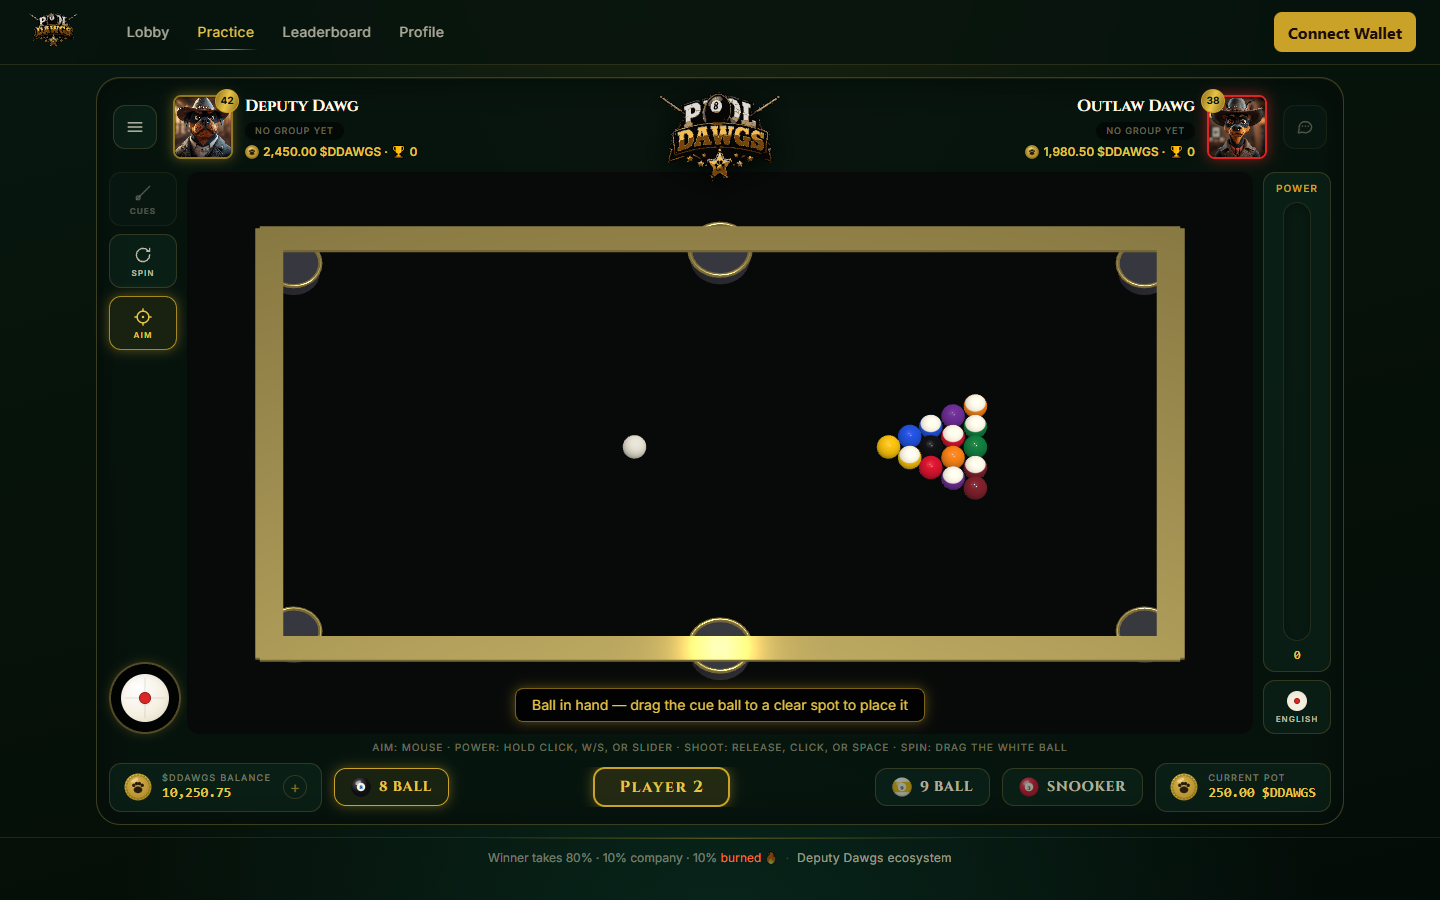
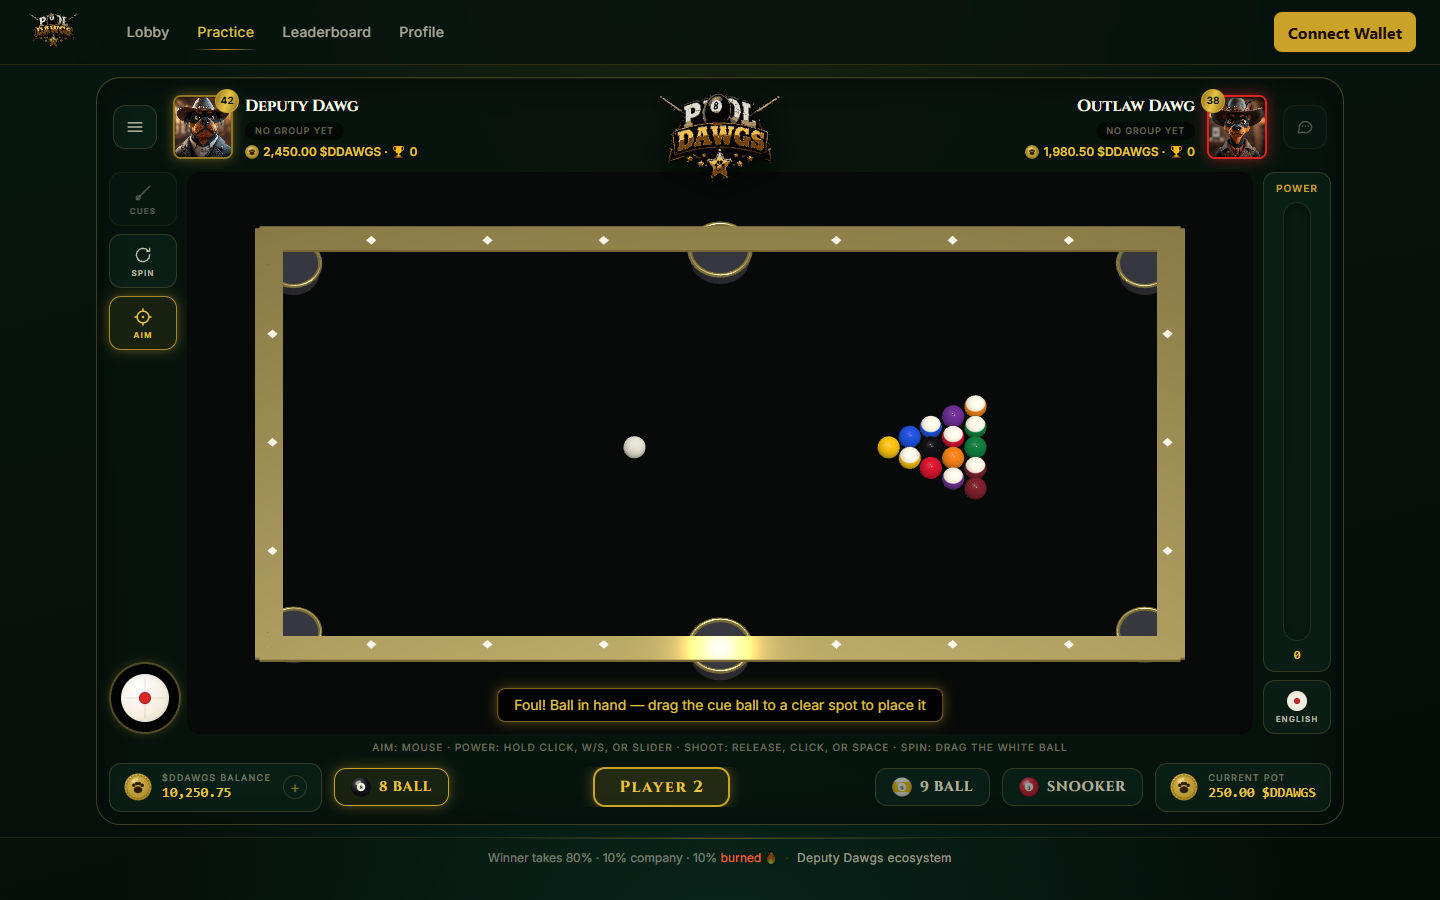
update luxury view

Changed region(s): [[0.3438, 0.7467, 0.6562, 0.8089], [0.625, 0.4356, 0.6875, 0.5289], [0.4688, 0.6844, 0.5312, 0.7467]]

diff --git a/apps/web/components/PoolTable3D.tsx b/apps/web/components/PoolTable3D.tsx
@@ -48,11 +48,15 @@ import { ballStyle, type BallLike } from "@/lib/balls";
 // component is re-keyed on gameType in GameShell, so a fresh scene is built
 // with the correct geometry whenever the variant changes.
 const S = 1 / PX_PER_M;
+// Render balls a hair smaller than the physics collision radius (BALL_RADIUS)
+// so two balls resting one diameter apart show a clean gap instead of visually
+// touching/overlapping at the camera angle.
+const BALL_VIS = 0.94;
 let RG: TableGeometry = geomFor("8ball");
-let R = RG.BALL_RADIUS * S; // ball radius (world metres)
+let R = RG.BALL_RADIUS * S * BALL_VIS; // ball radius (world metres, visual)
 function setRenderGeom(gameType: TableState["gameType"]): void {
   RG = geomFor(gameType);
-  R = RG.BALL_RADIUS * S;
+  R = RG.BALL_RADIUS * S * BALL_VIS;
 }
 const wx = (px: number) => (px - RG.TABLE_WIDTH / 2) * S;
 const wz = (py: number) => (RG.TABLE_HEIGHT / 2 - py) * S;
@@ -310,11 +314,27 @@ export default function PoolTable3D({
     );
     stick.rotation.z = Math.PI / 2; // lay along the rig's X axis
     stick.parent = cueRig;
+    stick.renderingGroupId = 1; // always drawn on top of the rails/balls
     shadow.addShadowCaster(stick);
+    // Premium two-tone cue: polished maple shaft → dark walnut butt with a gold
+    // joint band, baked along the length so it reads like a real cue.
+    const cueTex = new DynamicTexture("cueTex", { width: 16, height: 256 }, scene, true);
+    const cctx = cueTex.getContext() as unknown as CanvasRenderingContext2D;
+    const cueGrad = cctx.createLinearGradient(0, 0, 0, 256);
+    cueGrad.addColorStop(0.0, "#e9d6ab"); // tip end — pale maple
+    cueGrad.addColorStop(0.6, "#d8b984"); // maple shaft
+    cueGrad.addColorStop(0.7, "#d6af3a"); // gold joint band
+    cueGrad.addColorStop(0.74, "#2c1a10"); // butt
+    cueGrad.addColorStop(1.0, "#1c100a"); // butt cap
+    cctx.fillStyle = cueGrad;
+    cctx.fillRect(0, 0, 16, 256);
+    cueTex.update();
     const stickMat = new PBRMaterial("stickMat", scene);
-    stickMat.albedoColor = Color3.FromHexString("#1a120b");
-    stickMat.metallic = 0.2;
-    stickMat.roughness = 0.4;
+    stickMat.albedoTexture = cueTex;
+    stickMat.metallic = 0.1;
+    stickMat.roughness = 0.3;
+    stickMat.clearCoat.isEnabled = true;
+    stickMat.clearCoat.intensity = 0.5;
     stick.material = stickMat;
     const tipMat = new PBRMaterial("tipMat", scene);
     tipMat.albedoColor = Color3.FromHexString("#c9a227");
@@ -325,6 +345,7 @@ export default function PoolTable3D({
     ferrule.rotation.z = Math.PI / 2;
     ferrule.parent = cueRig;
     ferrule.material = tipMat;
+    ferrule.renderingGroupId = 1; // on top with the stick
     cueRig.setEnabled(false);
 
     // ── Aim guide line on the cloth ──
@@ -450,7 +471,14 @@ export default function PoolTable3D({
       }
       return best;
     };
-    const DROP_MS = 300;
+    // Pocket-drop phases (real-world feel): the ball drops into the pocket
+    // mouth, RATTLES around the jaws for ~0.6 s (decaying jitter), then sinks
+    // out of sight and vanishes.
+    const DROP_IN_MS = 170; // fall into the pocket mouth
+    const RATTLE_MS = 620; // bounce around the jaws
+    const SINK_MS = 170; // drop out of sight
+    const DROP_TOTAL = DROP_IN_MS + RATTLE_MS + SINK_MS;
+    const REST_Y = R * 0.4; // nestled in the pocket but still visible
     const advanceDrops = (now: number) => {
       for (const [id, d] of drops) {
         const m = balls[id];
@@ -458,19 +486,41 @@ export default function PoolTable3D({
           drops.delete(id);
           continue;
         }
-        const t = Math.min(1, (now - d.startedAt) / DROP_MS);
-        const e = t * t; // ease-in: accelerate as it falls in
-        m.isVisible = true;
-        m.position.x = d.x0 + (d.hx - d.x0) * e;
-        m.position.z = d.z0 + (d.hz - d.z0) * e;
-        m.position.y = R - R * 2.4 * e; // sink through the cloth into the well
-        const sc = 1 - 0.5 * t;
-        m.scaling.set(sc, sc, sc);
-        if (t >= 1) {
+        const age = now - d.startedAt;
+        if (age >= DROP_TOTAL) {
           m.isVisible = false;
           m.scaling.set(1, 1, 1);
           m.position.y = R;
           drops.delete(id);
+          continue;
+        }
+        m.isVisible = true;
+        if (age < DROP_IN_MS) {
+          // 1) roll/fall into the pocket mouth.
+          const t = age / DROP_IN_MS;
+          const e = t * t;
+          m.position.x = d.x0 + (d.hx - d.x0) * e;
+          m.position.z = d.z0 + (d.hz - d.z0) * e;
+          m.position.y = R + (REST_Y - R) * e;
+          m.scaling.set(1, 1, 1);
+        } else if (age < DROP_IN_MS + RATTLE_MS) {
+          // 2) rattle around the jaws — multi-frequency, decaying amplitude.
+          const rt = (age - DROP_IN_MS) / RATTLE_MS; // 0..1
+          const decay = 1 - rt;
+          const amp = R * 0.45 * decay;
+          const ph = age * 0.05;
+          m.position.x = d.hx + (Math.cos(ph * 2.1) + 0.4 * Math.cos(ph * 5.7)) * amp;
+          m.position.z = d.hz + (Math.sin(ph * 2.6) + 0.4 * Math.sin(ph * 6.3)) * amp;
+          m.position.y = REST_Y + Math.abs(Math.sin(ph * 3.4)) * R * 0.22 * decay;
+          m.scaling.set(1, 1, 1);
+        } else {
+          // 3) sink out of sight and shrink away.
+          const st = (age - DROP_IN_MS - RATTLE_MS) / SINK_MS;
+          m.position.x = d.hx;
+          m.position.z = d.hz;
+          m.position.y = REST_Y + (-R * 1.6 - REST_Y) * st;
+          const sc = 1 - 0.85 * st;
+          m.scaling.set(sc, sc, sc);
         }
       }
     };
@@ -780,7 +830,13 @@ function buildTable(scene: Scene): void {
   const feltTex = new DynamicTexture("feltTex", { width: 1024, height: 512 }, scene, true);
   const fctx = feltTex.getContext() as unknown as CanvasRenderingContext2D;
   const paintFelt = () => {
-    fctx.fillStyle = "#1a9d68";
+    // Tournament cloth with a soft radial vignette — brighter under the lights,
+    // deeper green toward the cushions for a premium sense of depth.
+    const g = fctx.createRadialGradient(512, 256, 120, 512, 256, 640);
+    g.addColorStop(0, "#1fb178");
+    g.addColorStop(0.7, "#149a68");
+    g.addColorStop(1, "#0c6b47");
+    fctx.fillStyle = g;
     fctx.fillRect(0, 0, 1024, 512);
   };
   paintFelt();
@@ -804,25 +860,32 @@ function buildTable(scene: Scene): void {
     img.src = "/assets/watermark.svg";
   }
 
-  // Wood frame (metallic 0.10, roughness 0.35), kept below the cloth.
-  const frame = MeshBuilder.CreateBox("frame", { width: fullW + 0.08, height: 0.12, depth: fullH + 0.08 }, scene);
-  frame.position.y = -0.07;
+  // Polished mahogany frame (lacquered: clearcoat over a deep red-brown), below
+  // the cloth and apron of the table.
+  const frame = MeshBuilder.CreateBox("frame", { width: fullW + 0.1, height: 0.14, depth: fullH + 0.1 }, scene);
+  frame.position.y = -0.08;
   const woodMat = new PBRMaterial("woodMat", scene);
-  woodMat.albedoColor = Color3.FromHexString("#2a160c");
-  woodMat.metallic = 0.1;
-  woodMat.roughness = 0.35;
+  woodMat.albedoColor = Color3.FromHexString("#3a1c10");
+  woodMat.metallic = 0.12;
+  woodMat.roughness = 0.32;
+  woodMat.clearCoat.isEnabled = true;
+  woodMat.clearCoat.intensity = 0.5;
+  woodMat.clearCoat.roughness = 0.25;
   frame.material = woodMat;
   frame.receiveShadows = true;
 
-  // Wood rails (raised) + gold trim caps.
+  // Lacquered mahogany rails + gold trim caps.
   const railMat = new PBRMaterial("railMat", scene);
-  railMat.albedoColor = Color3.FromHexString("#3a2412");
-  railMat.metallic = 0.1;
-  railMat.roughness = 0.35;
+  railMat.albedoColor = Color3.FromHexString("#4a2415");
+  railMat.metallic = 0.12;
+  railMat.roughness = 0.28;
+  railMat.clearCoat.isEnabled = true;
+  railMat.clearCoat.intensity = 0.6;
+  railMat.clearCoat.roughness = 0.2;
   const goldMat = new PBRMaterial("goldMat", scene);
-  goldMat.albedoColor = Color3.FromHexString("#d6af3a");
+  goldMat.albedoColor = Color3.FromHexString("#e3c14e");
   goldMat.metallic = 1;
-  goldMat.roughness = 0.2;
+  goldMat.roughness = 0.18;
   goldMat.emissiveColor = Color3.FromHexString("#2e2208"); // reads gold without an HDRI
 
   const rt = RG.BORDER_SIZE * S * 0.8;
@@ -841,6 +904,33 @@ function buildTable(scene: Scene): void {
     const lip = MeshBuilder.CreateBox("lip", { width: w * 0.99, height: 0.012, depth: d * 0.99 }, scene);
     lip.position.set(x, 0.05, z);
     lip.material = goldMat;
+  }
+
+  // Diamond sights — the classic mother-of-pearl inlays on the rail caps that
+  // signal a premium table. 6 along each long rail (3 either side of the centre
+  // pocket), 3 along each short rail.
+  const sightMat = new PBRMaterial("sightMat", scene);
+  sightMat.albedoColor = Color3.FromHexString("#efe6cf");
+  sightMat.metallic = 0.15;
+  sightMat.roughness = 0.3;
+  sightMat.clearCoat.isEnabled = true;
+  sightMat.clearCoat.intensity = 0.7;
+  const ds = Math.min(fullW, fullH) * 0.014;
+  const placeDiamond = (px: number, pz: number) => {
+    const dia = MeshBuilder.CreateBox("sight", { width: ds, height: 0.004, depth: ds }, scene);
+    dia.position.set(px, 0.058, pz);
+    dia.rotation.y = Math.PI / 4;
+    dia.material = sightMat;
+  };
+  const longInsetZ = fullH / 2 - rt * 0.62;
+  const shortInsetX = fullW / 2 - rt * 0.62;
+  for (const fx of [-3 / 8, -2 / 8, -1 / 8, 1 / 8, 2 / 8, 3 / 8]) {
+    placeDiamond(fullW * fx, longInsetZ);
+    placeDiamond(fullW * fx, -longInsetZ);
+  }
+  for (const fz of [-1 / 4, 0, 1 / 4]) {
+    placeDiamond(shortInsetX, fullH * fz);
+    placeDiamond(-shortInsetX, fullH * fz);
   }
 
   // Pockets: dark wells + gold rims.

diff --git a/apps/web/app/practice/page.tsx b/apps/web/app/practice/page.tsx
@@ -47,6 +47,10 @@ export default function PracticePage() {
   // Frames won across re-racks.
   const [frames, setFrames] = useState<[number, number]>([0, 0]);
   const pendingEndState = useRef<TableState | null>(null);
+  // The shot's outcome is applied only when the replay (and the ball dropping
+  // into the pocket) finishes, so the foul / score message shows AFTER the ball
+  // is in the hole, not the instant the shot is taken.
+  const pendingOutcome = useRef<{ gameOver: boolean; winner: number | null; foul: boolean; note?: string } | null>(null);
 
   const reRack = useCallback(
     (type: GameType = gameType) => {
@@ -113,20 +117,13 @@ export default function PracticePage() {
       try {
         const result = simulateShot(state, shot);
         pendingEndState.current = result.endState;
+        pendingOutcome.current = result.outcome;
+        setMessage(null); // clear during the shot; the result shows after it lands
         setAnimation({
           fromState: state,
           shot,
           key: stateHash(result.endState) + result.steps,
         });
-        if (result.outcome.gameOver) {
-          setMessage(null);
-          if (result.outcome.winner !== null) {
-            const winner = result.outcome.winner;
-            setFrames((f) => (winner === 0 ? [f[0] + 1, f[1]] : [f[0], f[1] + 1]));
-          }
-        } else {
-          setMessage(result.outcome.note ?? null);
-        }
       } catch (e) {
         setMessage(e instanceof Error ? e.message : "Illegal shot");
       }
@@ -151,6 +148,20 @@ export default function PracticePage() {
       pendingEndState.current = null;
     }
     setAnimation(null);
+    // Now that the ball has finished dropping, surface the outcome: the foul /
+    // points message, or tally a won frame.
+    const outcome = pendingOutcome.current;
+    pendingOutcome.current = null;
+    if (outcome) {
+      if (outcome.gameOver) {
+        if (outcome.winner !== null) {
+          const winner = outcome.winner;
+          setFrames((f) => (winner === 0 ? [f[0] + 1, f[1]] : [f[0], f[1] + 1]));
+        }
+      } else {
+        setMessage(outcome.note ?? null);
+      }
+    }
   }, []);
 
   const turnLabel = (() => {
@@ -181,7 +192,7 @@ export default function PracticePage() {
       statusText={turnLabel}
       banner={
         state.ballInHand && !state.gameOver
-          ? "Ball in hand — drag the cue ball to a clear spot to place it"
+          ? "Foul! Ball in hand — drag the cue ball to a clear spot to place it"
           : message
       }
       centerAction={state.gameOver ? { label: "PLAY AGAIN", onClick: () => reRack() } : null}
